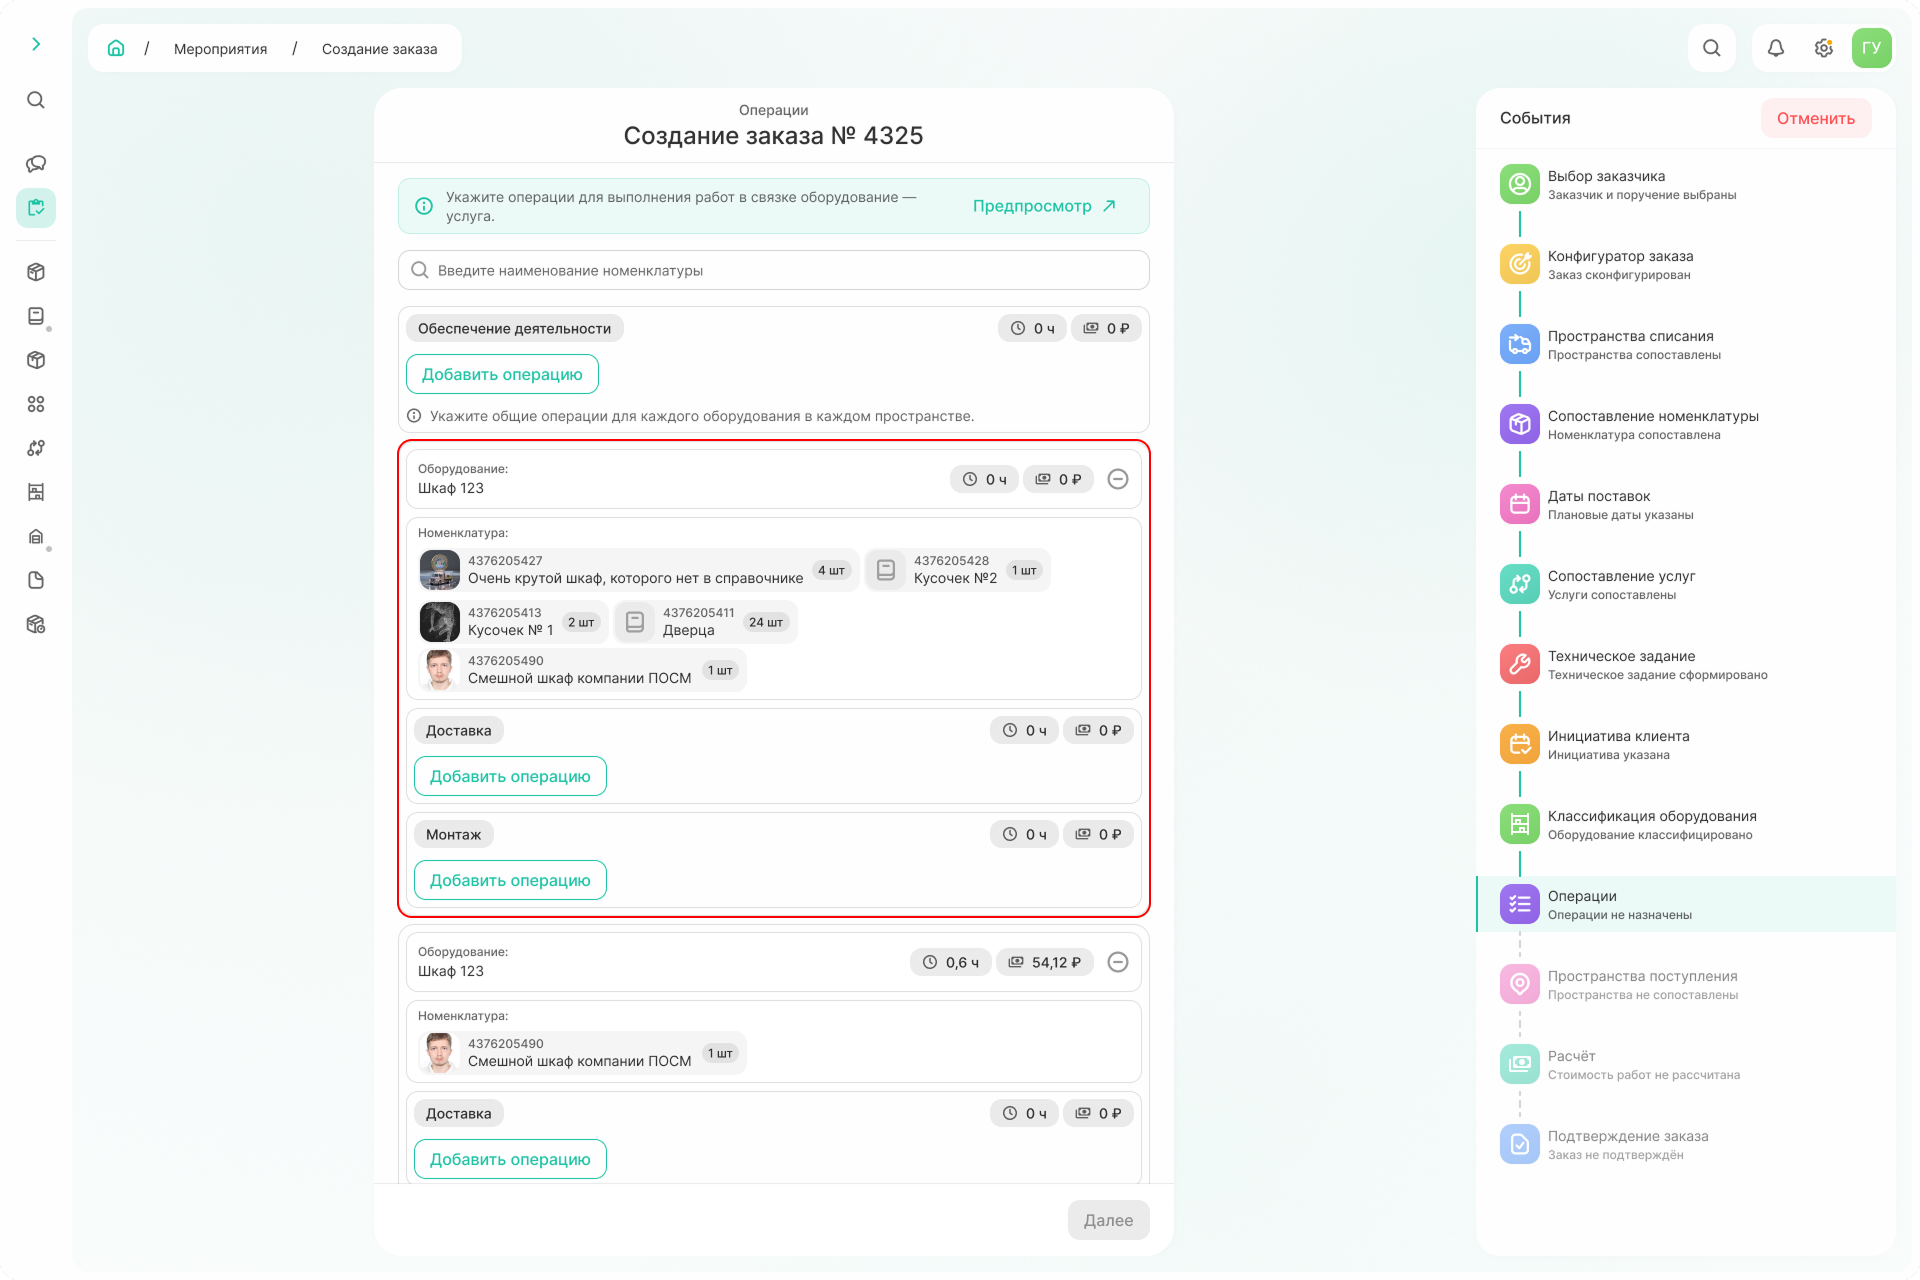
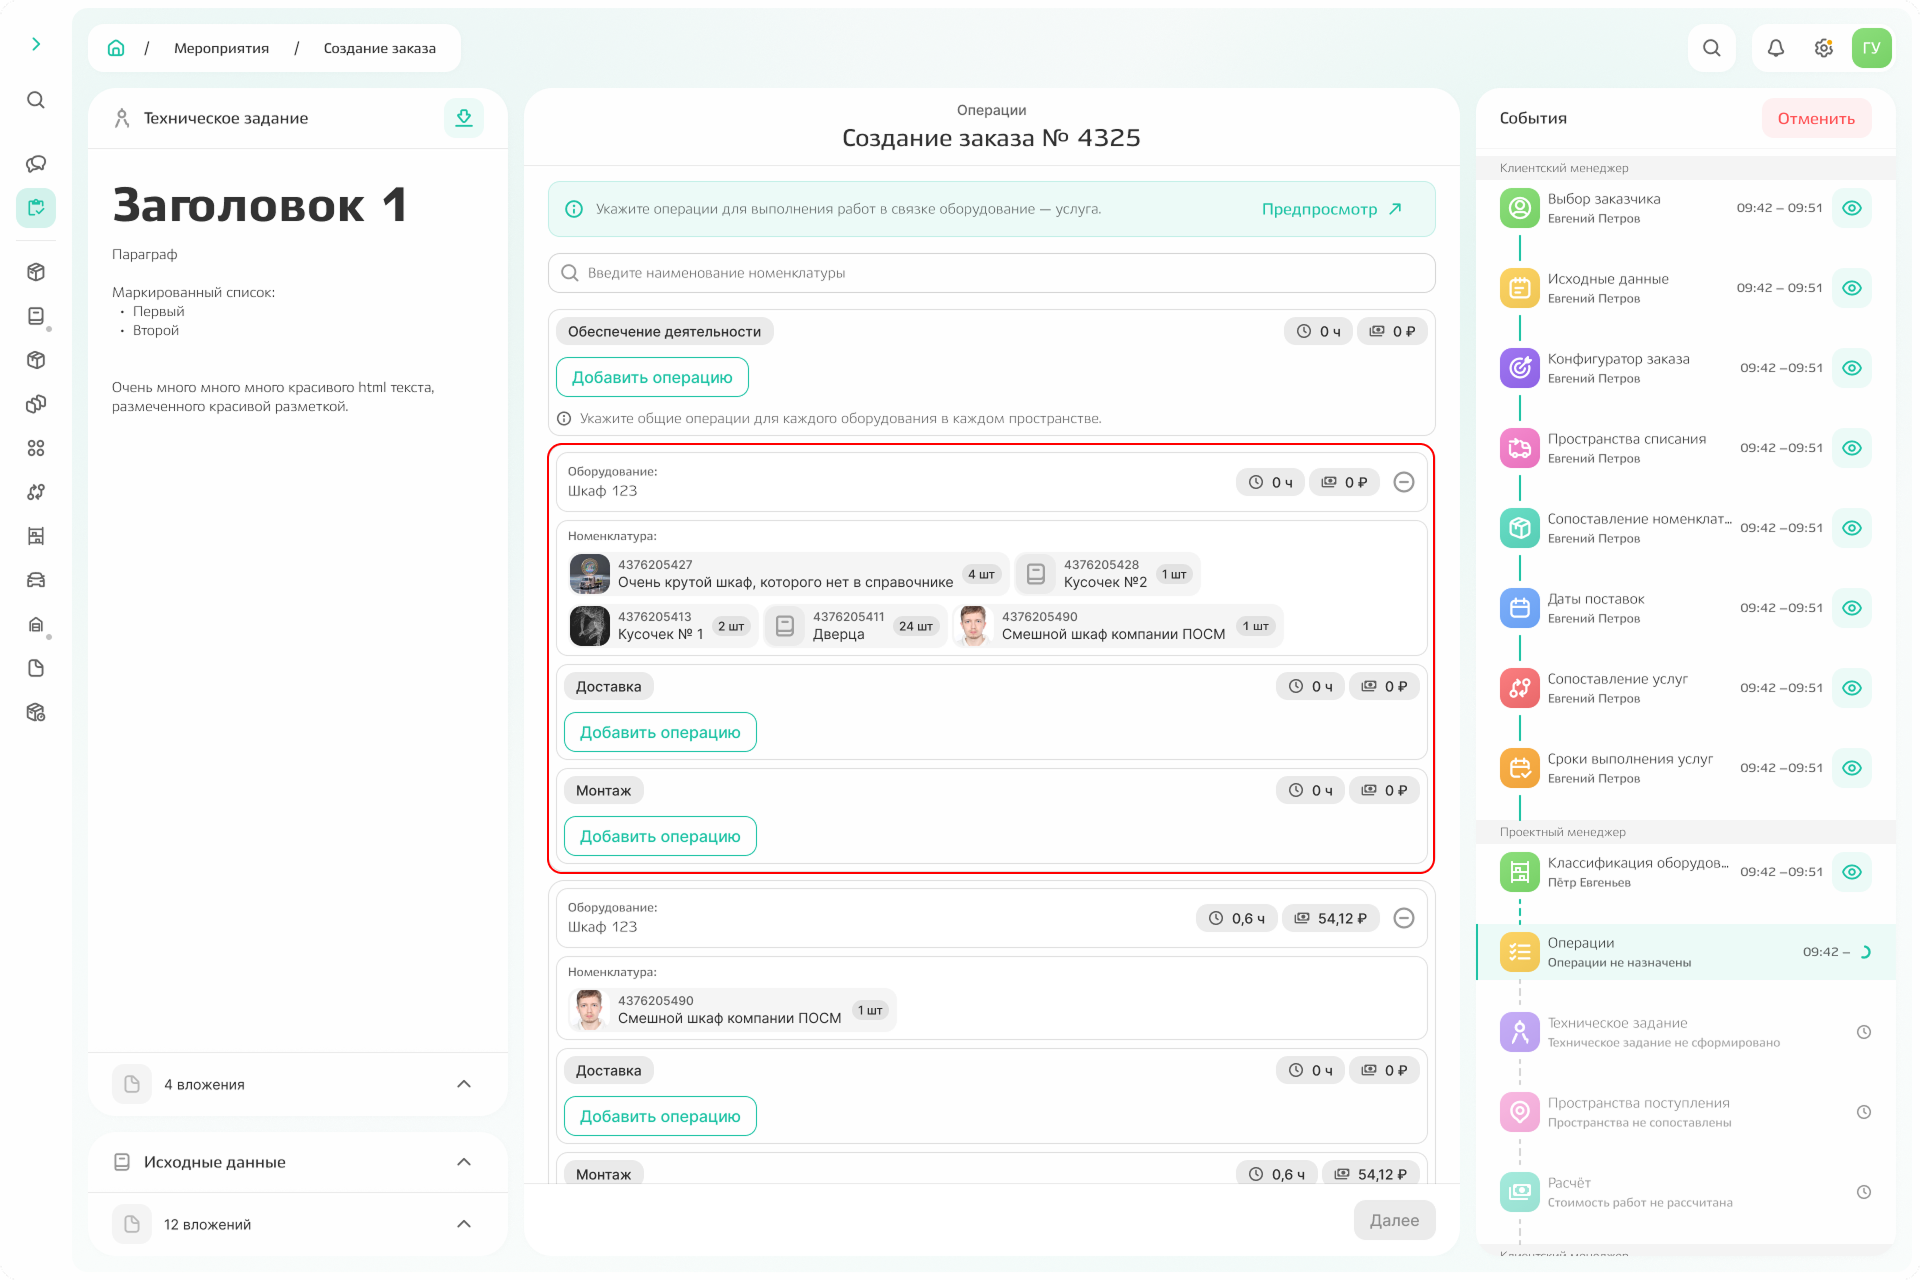
request everything before calculation

diff --git a/docs/ru/how_to_request.md b/docs/ru/how_to_request.md
@@ -184,58 +184,45 @@
 
 **Если ответственным вы назначили себя**, то окно с информацией о заказе не выводится, а сразу происходит переход к следующему событию. 
 
+## Детализация информации и расчет
+
 ### Событие 5. Классификация оборудования
-
-
-
-
-
-
-
-
-### Шаг 3. Техническое задание
-
-Опишите все требования, необходимые для выполнения работ по заказу.
-Можно прикрепить до 21 файла до 5 МБ для конкретизации ТЗ.
-
-![_screen_request_TZ_08](_images/_screen_request_TZ_08.png){.center width=1200}
-
-
-
-
-
-## Детализация заказа и подготовка к расчету
-
-### Шаг 5. Классификация оборудования
 
 К уже полученным связкам «оборудование — номенклатура» необходимо добавить вид для корректного расчета стоимости работ. 
 
-Если на шаге 2 «Конфигуратор заказа» был выбран мануальный режим, то вид оборудования заполняется вручную.
+Если в событии 3 «Конфигуратор заказа» был выбран мануальный режим, то вид оборудования заполняется вручную.
 При загрузке excel-шаблона вид оборудования подбирается автоматически, если сопоставление не удалось — также вручную.
 
 Вид оборудования определяется типом оборудования: сначала выбирается тип, после — связанный с ним вид. И у типа, и у вида оборудования есть описание, которое можно открыть по подсказке 🛈. 
 
 ![_screen_type_of_equipment](_images/_screen_type_of_equip.png){.center width=1200}
 
-### Шаг 6. Операции
+### Событие 6. Операции
 
-На текущем шаге указываются операции для связки «оборудование — услуга». 
+В рамках текущего события указываются операции для связки «оборудование — услуга». 
 У каждой услуги свой список операций. **Для каждой услуги в заказе нужно указать хотя бы одну операцию.**
 
 В блоке обеспечение деятельности добавьте общие операции для всего оборудования.
 Далее переходите к карточкам, где необходимо указать операции по услугам, которые будут относиться к конкретной связке «оборудование - номенклатура».   
 
-  {% note info %}
+{% note info %}
 
-  Если в рамках одного заказа для разных адресов встречается одно и то же оборудование с одинаковым набором номенклатуры и набором услуг, то отображается одна общая карточка. 
+Если в рамках одного заказа для разных адресов встречается одно и то же оборудование с одинаковым набором номенклатуры и набором услуг, то отображается одна общая карточка. 
 
-  {% endnote %}
+{% endnote %}
 
 ![_screen_order_operation_add](_images/_screen_order_operation_add.png){.center width=1200}
 
-### Шаг 7. Пространства поступления
+### Событие 7. Техническое задание
 
-Аналогично классификации оборудования, если на шаге 2 «Конфигуратор заказа» был выбран мануальный режим, то соответствие адресов для пространства поступления заполняется вручную.
+Опишите все требования, необходимые для выполнения работ по заказу.
+Можно прикрепить до 24 файлов до 5 МБ для конкретизации ТЗ.
+
+![_screen_request_TZ_08](_images/_screen_request_TZ_08.png){.center width=1200}
+
+### Событие 8. Пространства поступления
+
+Аналогично классификации оборудования, если на событии 3 «Конфигуратор заказа» был выбран мануальный режим, то соответствие адресов для пространства поступления заполняется вручную.
 При загрузке excel-шаблона адрес сопоставляется автоматически, если сопоставление не удалось — вручную.
 
 Пространство считается сопоставленным если есть системное и зависимое пользовательское пространство и у заказчика, и у исполнителя. В ином случае, пользователь должен либо:
@@ -245,9 +232,7 @@
 
 ![_screen_address_delievery](_images/_screen_address_delievery.png){.center width=1200}
 
-## Расчет стоимости и подтверждение заказа
-
-### Шаг 8. Расчет
+### Событие 9. Расчет
 
 
 
